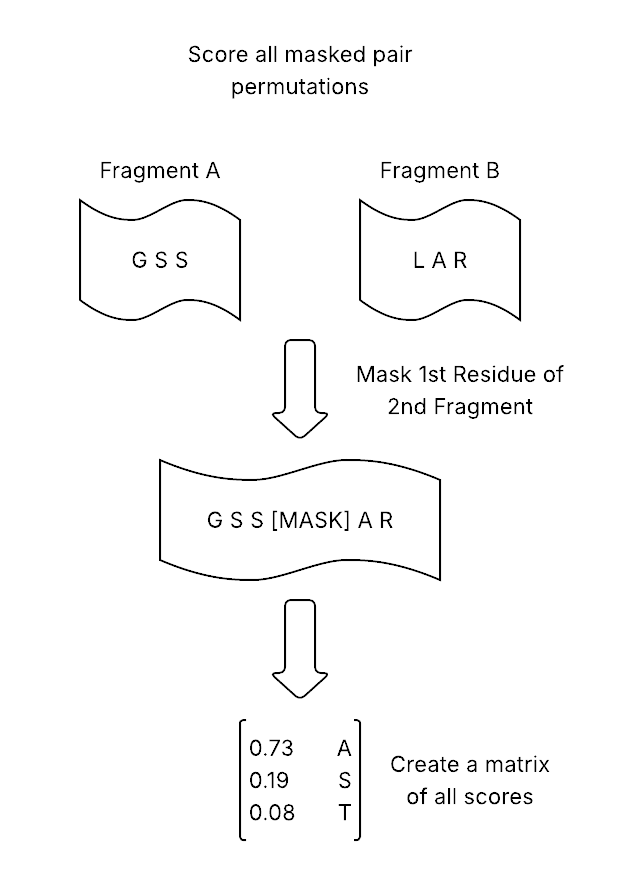
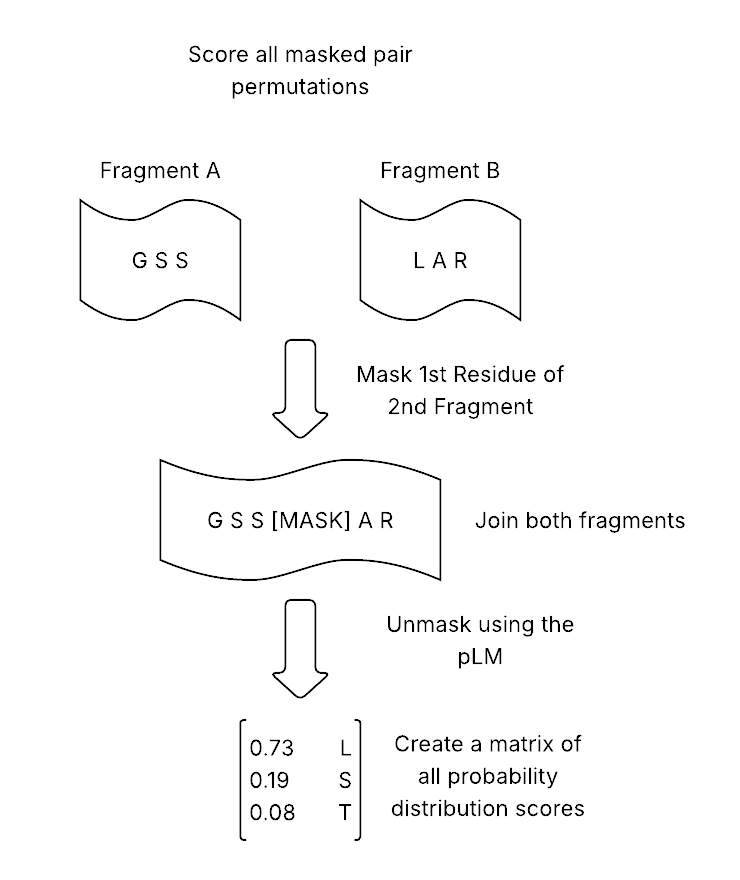
Report - Improved Figures

diff --git a/report/bare_jrnl.tex b/report/bare_jrnl.tex
@@ -422,7 +422,7 @@ reflecting the original protein. The score is
 calculated through a perplexity (uncertainty) measurement gathered from the previous junction scoring step
 along with an agreement reading from the confirmed adjacencies identified from the overlap graph tool. This signal is used to select the
 best candidate produced by the agent, with the best scoring candidate always being selected after all 
-iterations have been exhausted. The feedback from this tool directly tells the agent if the parameter
+iterations have been exhausted (lower score is better). The feedback from this tool directly tells the agent if the parameter
 configurations are working well or not, triggering an exploration vs. exploitation
 dilemma for the agent to optimise the reconstruction given its limited iteration budget. It is worth stating that this tool is incapable of 
 guaranteeing that it will correctly indicate which candidate is the closest to the original, and should only be considered

diff --git a/report/figures/validity_scorer.tex b/report/figures/validity_scorer.tex
@@ -1,6 +1,6 @@
 \begin{figure}[!tb]
   \centering
-  \includegraphics[width=0.75\columnwidth]{images/validity_scorer.png}
-  \caption{An overview of the validity scorer tool. The example demonstrates two candidate reconstructions being evaluated based on their certainty of their junctions and their adjacency agreement, with a single numeric value being produced to represent a proxy of how close the solution is to the original protein.}
+  \includegraphics[width=0.9\columnwidth]{images/validity_scorer.png}
+  \caption{An overview of the validity scorer tool. The example demonstrates two candidate reconstructions being evaluated based on their certainty of their junctions and their adjacency agreement, with a single numeric value (lower is better) being produced for each to represent a proxy of how close the solution is to the original protein.}
   \label{fig:validity_scorer}
 \end{figure}

diff --git a/report/figures/greedy_beam_search.tex b/report/figures/greedy_beam_search.tex
@@ -1,6 +1,6 @@
 \begin{figure}[!tb]
   \centering
-  \includegraphics[width=0.75\columnwidth]{images/greedy_beam_search.png}
-  \caption{An overview of the beam search tool. The example demonstrates a selection of best fragment pairings based on their junction scores, with the option of greedy or beam path selection.}
+  \includegraphics[width=0.9\columnwidth]{images/greedy_beam_search.png}
+  \caption{An overview of the greedy / beam search tool. The example demonstrates a selection of best fragment pairings based on their junction scores, with the option of greedy or beam path selection to continue a deeper search for a potentially more probable path when probabilities are aggregated.}
   \label{fig:greedy_beam_search}
 \end{figure}

diff --git a/report/figures/junction_scoring.tex b/report/figures/junction_scoring.tex
@@ -1,6 +1,6 @@
 \begin{figure}[!tb]
   \centering
-  \includegraphics[width=0.75\columnwidth]{images/junction_scoring.png}
-  \caption{An overview of the junction scorer tool. The example demonstrates a single token mask being placed over one amino acid and then producing a probability distribution upon passing the masked sequence to a pLM.}
+  \includegraphics[width=0.9\columnwidth]{images/junction_scoring.png}
+  \caption{An overview of the junction scorer tool. The example demonstrates a single token mask being placed over one amino acid 'L' and then producing a probability distribution upon passing the masked sequence to a pLM; resulting in 'L' with a highly probable score of 0.73.}
   \label{fig:junction_scoring}
 \end{figure}

diff --git a/report/figures/overlap_graph.tex b/report/figures/overlap_graph.tex
@@ -1,6 +1,6 @@
 \begin{figure}[!tb]
   \centering
-  \includegraphics[width=0.75\columnwidth]{images/overlap_graph.png}
-  \caption{An overview of the overlap graph tool. The example demonstrates a scenario where an adjacency is confirmed through identifying common subsets across multiple replicas.}
+  \includegraphics[width=0.9\columnwidth]{images/overlap_graph.png}
+  \caption{An overview of the overlap graph tool. The example demonstrates a scenario where an adjacency is confirmed through identifying a common pairing due to missed cleavages across multiple replicas.}
   \label{fig:overlap_graph}
 \end{figure}

diff --git a/report/figures/trypsin_filter.tex b/report/figures/trypsin_filter.tex
@@ -1,6 +1,6 @@
 \begin{figure}[!tb]
   \centering
-  \includegraphics[width=0.75\columnwidth]{images/trypsin_filter.png}
+  \includegraphics[width=0.9\columnwidth]{images/trypsin_filter.png}
   \caption{An overview of the trypsin filter tool. The example demonstrates discarding an impossible pairing; joining these two fragments would give "GSSKPLAT", but this would not reflect the original as trypsin never cuts at K when followed by P.}
   \label{fig:trypsin_filter}
 \end{figure}

diff --git a/report/tables/cost_ecoli_r100.tex b/report/tables/cost_ecoli_r100.tex
@@ -13,5 +13,6 @@
     Wall clock (s) & 35.8 & 7.0 \\
     \bottomrule
   \end{tabular}
-  \par\smallskip\footnotesize{LLM calls add most of the runtime, resulting in $\sim$5x higher computational time cost.}
+  \par\smallskip\footnotesize{LLM calls add most of the runtime, resulting in $\sim$5x higher computational time cost. Local parts of the pipeline were ran through
+  a system which had an Nvidia RTX 4060 GPU, AMD Ryzen 5 5600 CPU, 32GB DDR4 RAM.}
 \end{table}
